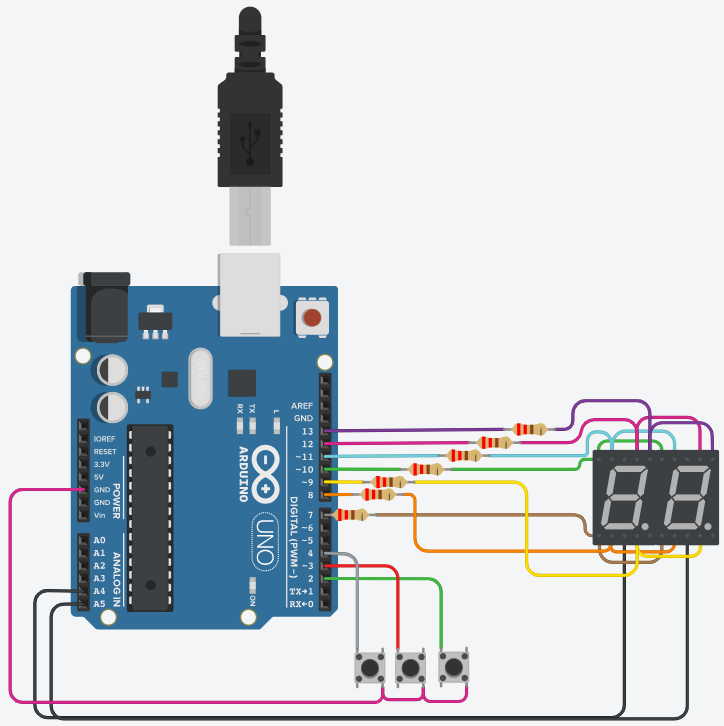
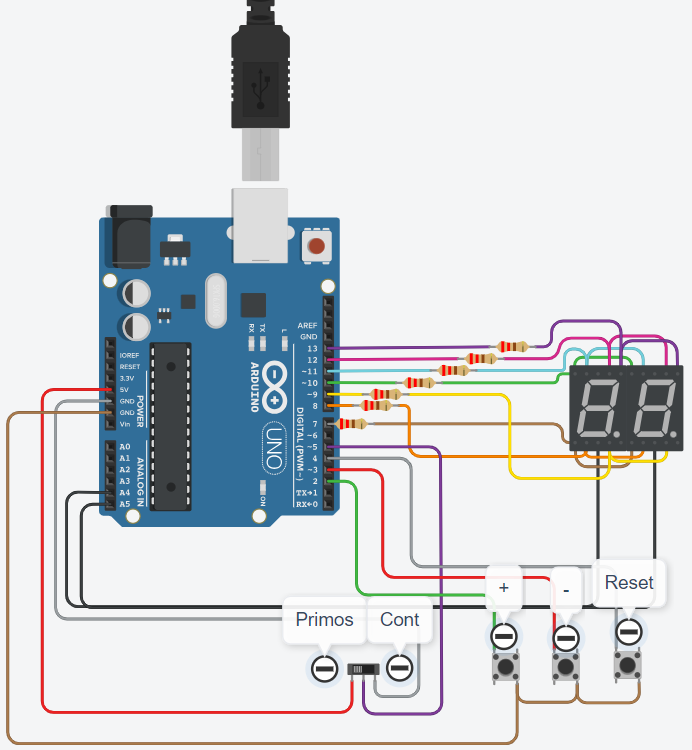
subida parte 2

diff --git a/code/arduino.cpp b/code/arduino.cpp
@@ -10,11 +10,12 @@
 #define BAJA 3
 #define RESET 4
 #define DISPLAY_DELAY 25
+#define SW_1 5
 
 // Configuración de pines como entradas o salidas
 void setup()
 {
-  for(int i = 7; i < 14; i++) {
+  for(int i = 3; i < 14; i++) {
     pinMode(i, OUTPUT);
   }
   pinMode(A4, OUTPUT);            // Display 1
@@ -34,6 +35,7 @@ int leerRestar = 0;
 int restarAnterior = 1;
 int sumarAnterior = 1;
 int reiniciarAnterior = 1;
+bool mostrarNumPrimos = false;
   
 void loop()
 {      
@@ -41,9 +43,12 @@ void loop()
   int presionoTecla = teclaPresionada();
 
   // Acción sobre el pulsador en base a tecla presionada
-  if(presionoTecla == SUBE)
-  {
-  	contadorNumeros += 1;
+  if(presionoTecla == SUBE) {
+    if(digitalRead(SW_1) == LOW) {
+      contadorNumeros += 1;
+    } else {
+      contadorNumeros = obtenerPrimo(contadorNumeros + 1, true);
+    }
    
     if(contadorNumeros > 99)
     {
@@ -52,7 +57,11 @@ void loop()
   }
   else if(presionoTecla == BAJA)
   {
-    contadorNumeros -= 1;
+    if(digitalRead(SW_1) == LOW) {
+      contadorNumeros -= 1;
+    } else {
+      contadorNumeros = obtenerPrimo(contadorNumeros - 1, false);
+    }
 
     if(contadorNumeros < 0)
     {
@@ -63,9 +72,49 @@ void loop()
   {
      contadorNumeros = 0;
   }
+
+  mostrarNumPrimos = digitalRead(SW_1) == LOW;
   
   // Llamamos a la funcion para el manejo de los display
   controladorDisplay(contadorNumeros);
+}
+
+int obtenerPrimo(int numero, bool siguiente){
+  while (true){
+    // Busco el siguiente primo
+    if(siguiente) {
+      numero ++;
+      if(numero > 99) {
+        numero = 0;
+      } 
+    }
+
+    // Busco el anterior primo
+    else {
+      numero --;
+      if(numero <= 0) {
+        numero = 99;
+      } 
+    }
+
+    if (numPrimo(numero)){
+      return numero;
+    }
+  }
+}
+
+bool numPrimo(int numero) {
+  if (numero <= 1) {
+    return false;  // Falso (no es primo)
+  }
+    
+  for (int index = 2; index <= numero/2; index++) {
+    if (numero % index == 0) {
+      return false;  // Falso (no es primo)
+    }
+  }
+  
+  return true;  // Verdadero (es primo)
 }
 
 // Control del funcionamiento de los display
@@ -88,7 +137,7 @@ void controladorDisplay(int contadorNumeros)
 
 // Funcion para mostrar los numeros en el display
 void numerosDisplay(int numero){
-  borrar_display();
+  borrarDisplay();
       
   switch(numero) {
   	case 0:
@@ -163,7 +212,7 @@ void numerosDisplay(int numero){
 }
 
 // Apaga todos los segmentos del display
-void borrar_display(){
+void borrarDisplay(){
   digitalWrite(A, LOW); 
 	digitalWrite(B, LOW); 
 	digitalWrite(C, LOW); 

diff --git a/README.md b/README.md
@@ -105,4 +105,4 @@ int teclaPresionada(void)
 ~~~
 
 ## :robot: Link al proyecto en Tinkercad
-- [proyecto](https://www.tinkercad.com/things/3Hq4TQANRCd)
+- [proyecto](https://www.tinkercad.com/things/1srGP3t4m9X)
